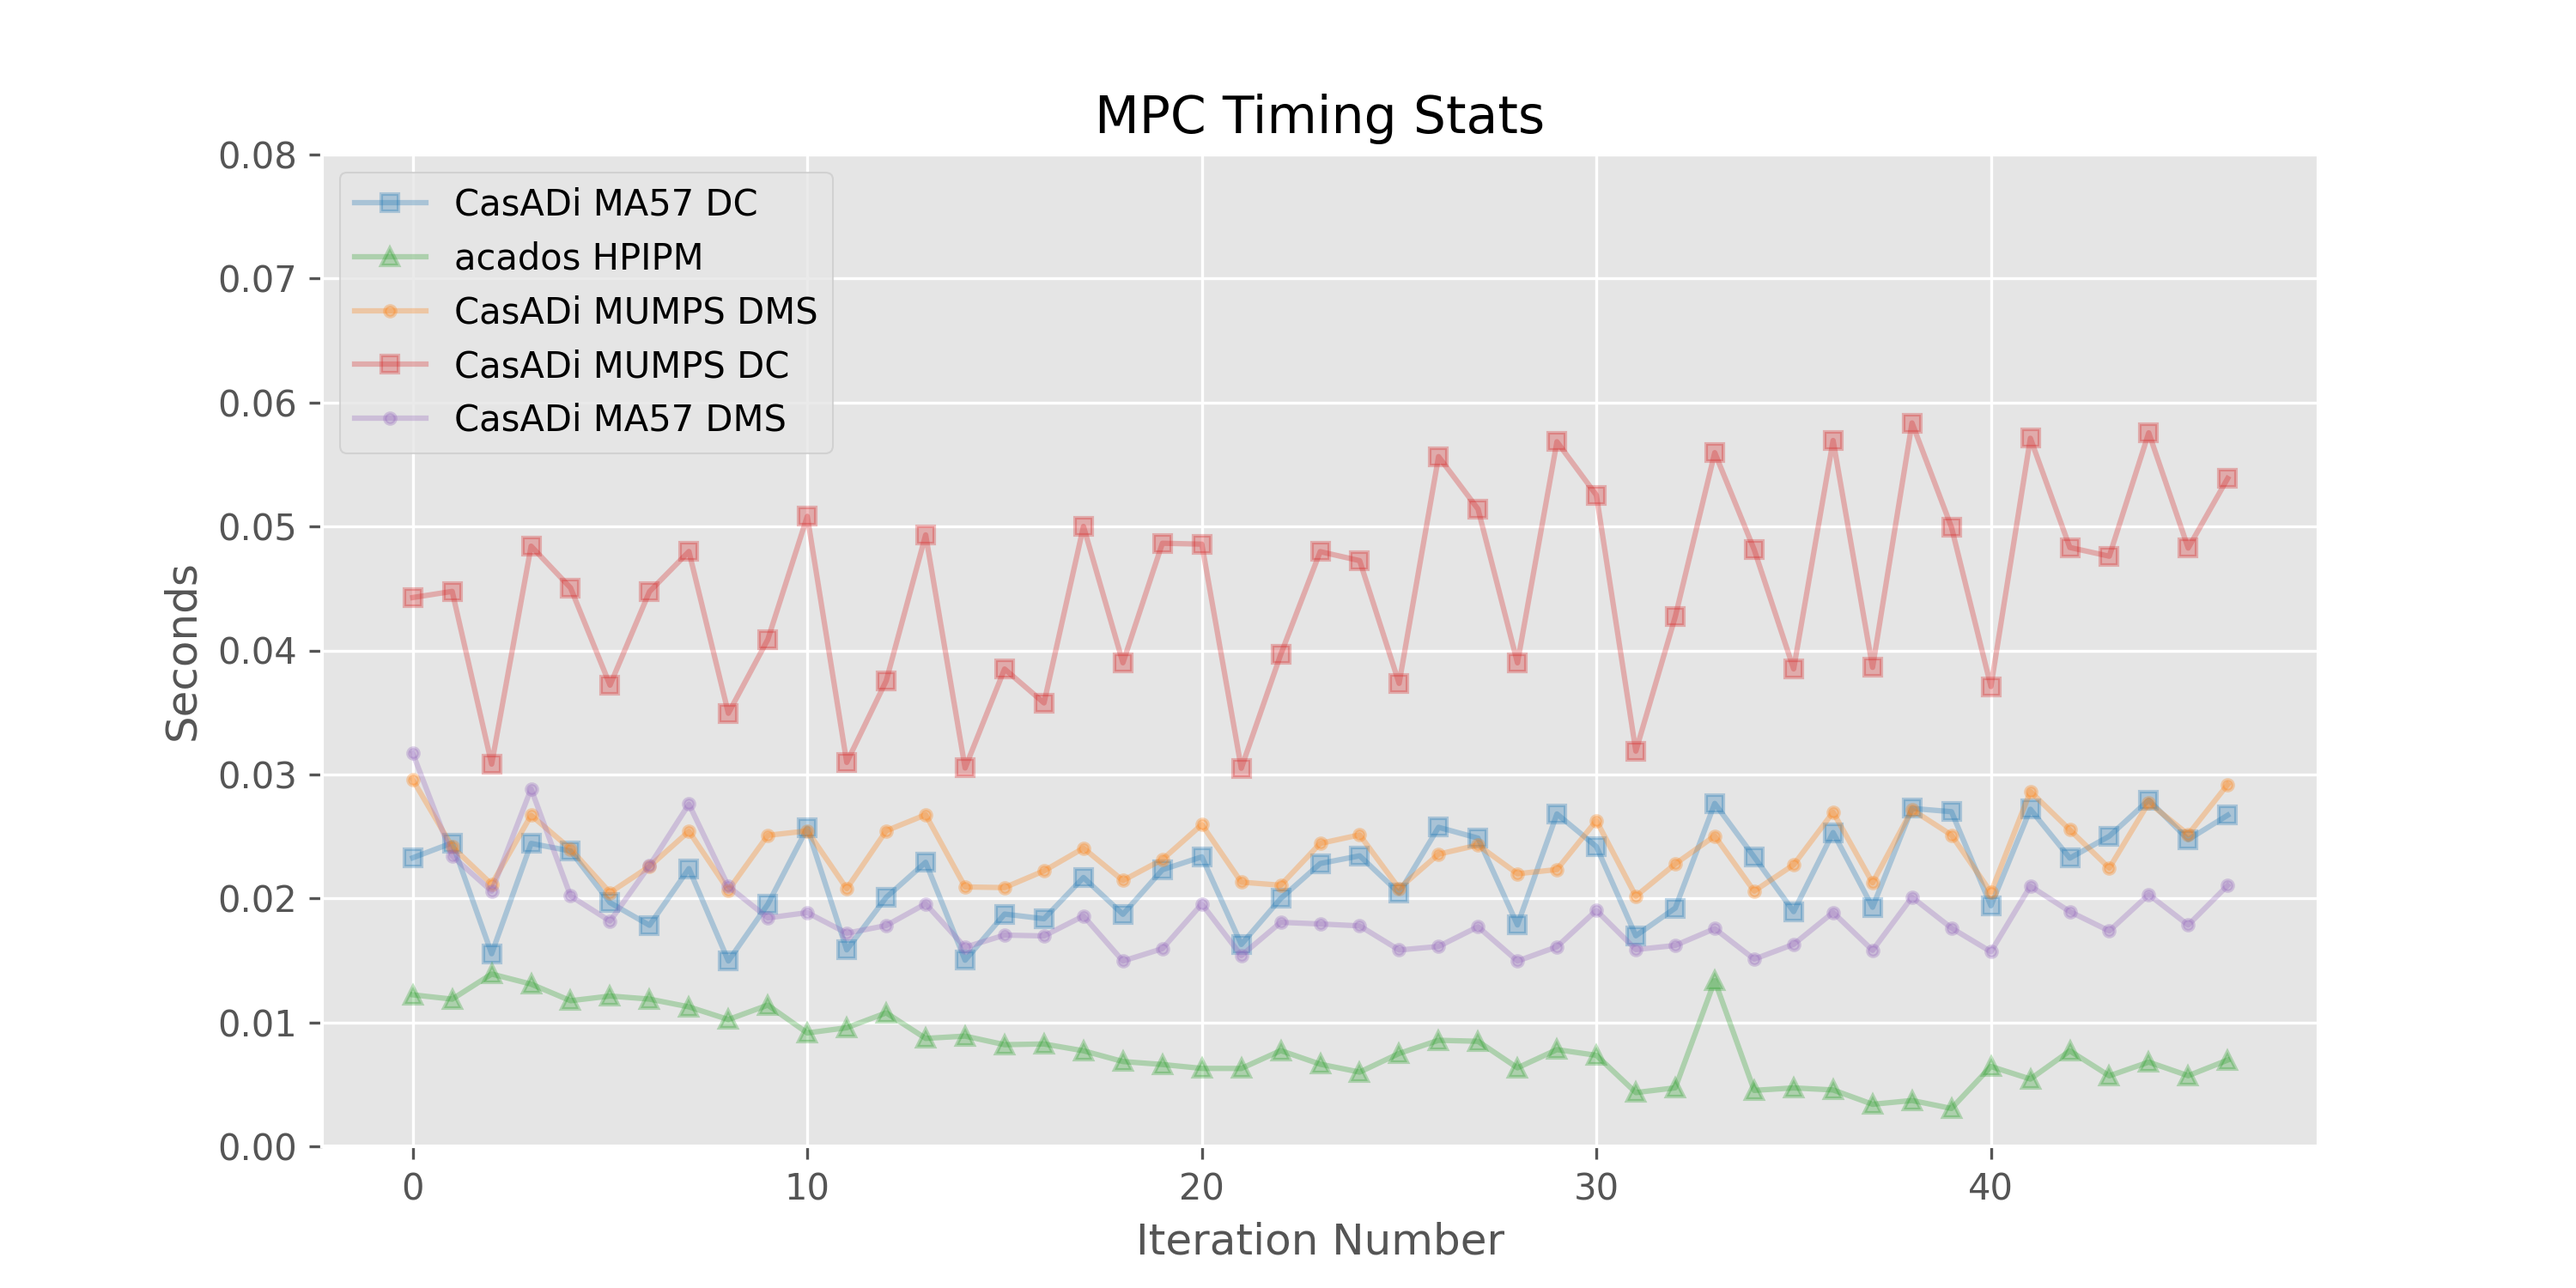
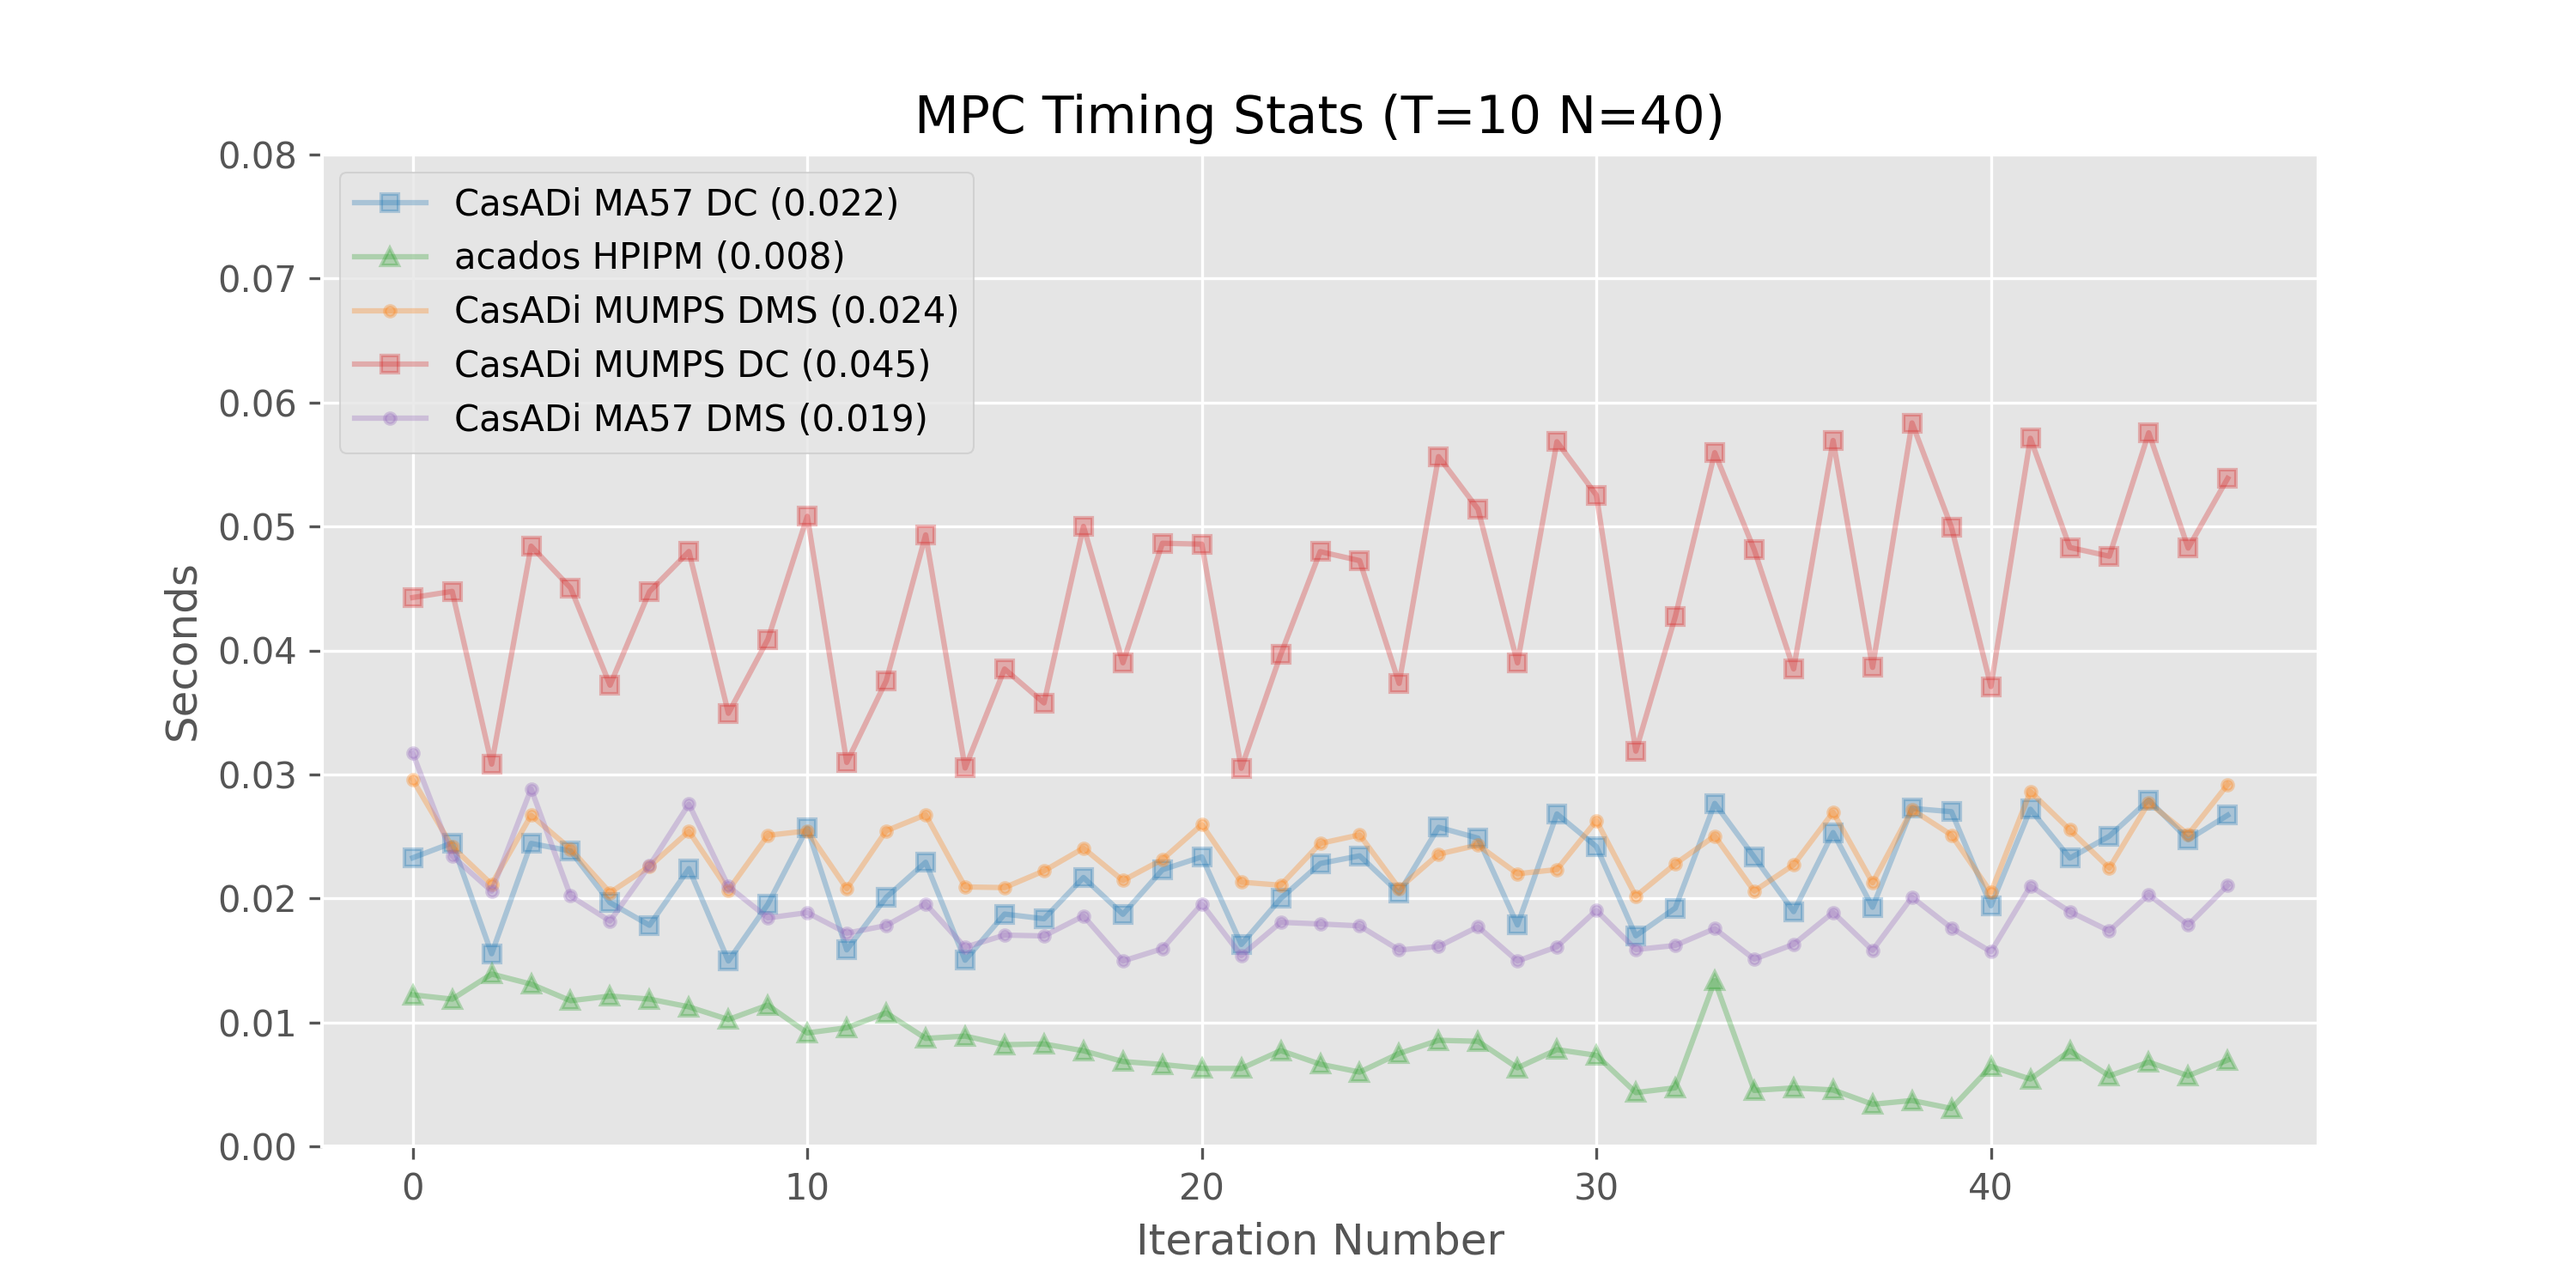
Add timing and control number info to plots

diff --git a/eval_scripts/plots.py b/eval_scripts/plots.py
@@ -26,12 +26,12 @@ for filename in os.listdir(direc):
 
             method = lgd_tmp[1]
             solver = 'DMS' if 'rk4' in filename else 'DC'
-            legend.append(library + ' ' + method + ' ' + solver)
+            legend.append(library + ' ' + method + ' ' + solver + ' ({:.3f})'.format(csv_tmp.mean()))
         else:
             mark_style = '^'
 
             method = lgd_tmp[1]
-            legend.append(library + ' ' + method.split('.')[0])
+            legend.append(library + ' ' + method.split('.')[0] + ' ({:.3f})'.format(csv_tmp.mean()))
 
         if mark_style == 's' or mark_style == '^':
             ax.plot(range(csv_tmp.shape[0]), csv_tmp, marker=mark_style, linestyle=ln_style, markersize=5, color=colors[col_i], alpha=0.3)
@@ -48,9 +48,10 @@ for filename in os.listdir(direc):
         # print('ipopt mean', f'{ipopt_mean:.4f}')
         # print('nlp mean', f'{nlp_mean:.4f}')
 
-ax.set_title('MPCC Timing Stats')
+ax.set_title('MPCC Timing Stats (T=10 N=40)')
 ax.set_ylabel('Seconds')
 ax.set_xlabel('Iteration Number')
+# ax.set_ylim([0.0, 0.08])
 plt.legend(legend)
 plt.grid(True)
 plt.savefig(os.path.join(curr_path, 'mpcc_simple_time_stats.png'), dpi=300)
